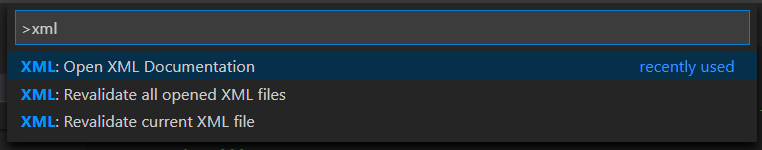
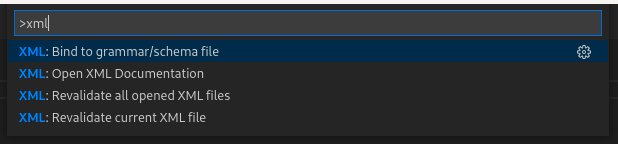
added 'Bind to grammar/schema file' command to Commands.md (#565)

diff --git a/docs/Commands.md b/docs/Commands.md
@@ -4,9 +4,15 @@
 
 ![XML Commands](images/Commands/XMLCommands.png)
 
+## Bind to grammar/schema file
+
+This command triggers the [XML Binding Wizard](BindingWithGrammar.md#the-xml-binding-wizard) for the current file.
+
+Details on the command are described [here](BindingWithGrammar.md#command).
+
 ## Open XML Documentation
 
-This command opens the `XML Documentation`
+This command opens the `XML Documentation`.
 
 ## Revalidate current XML file
 
